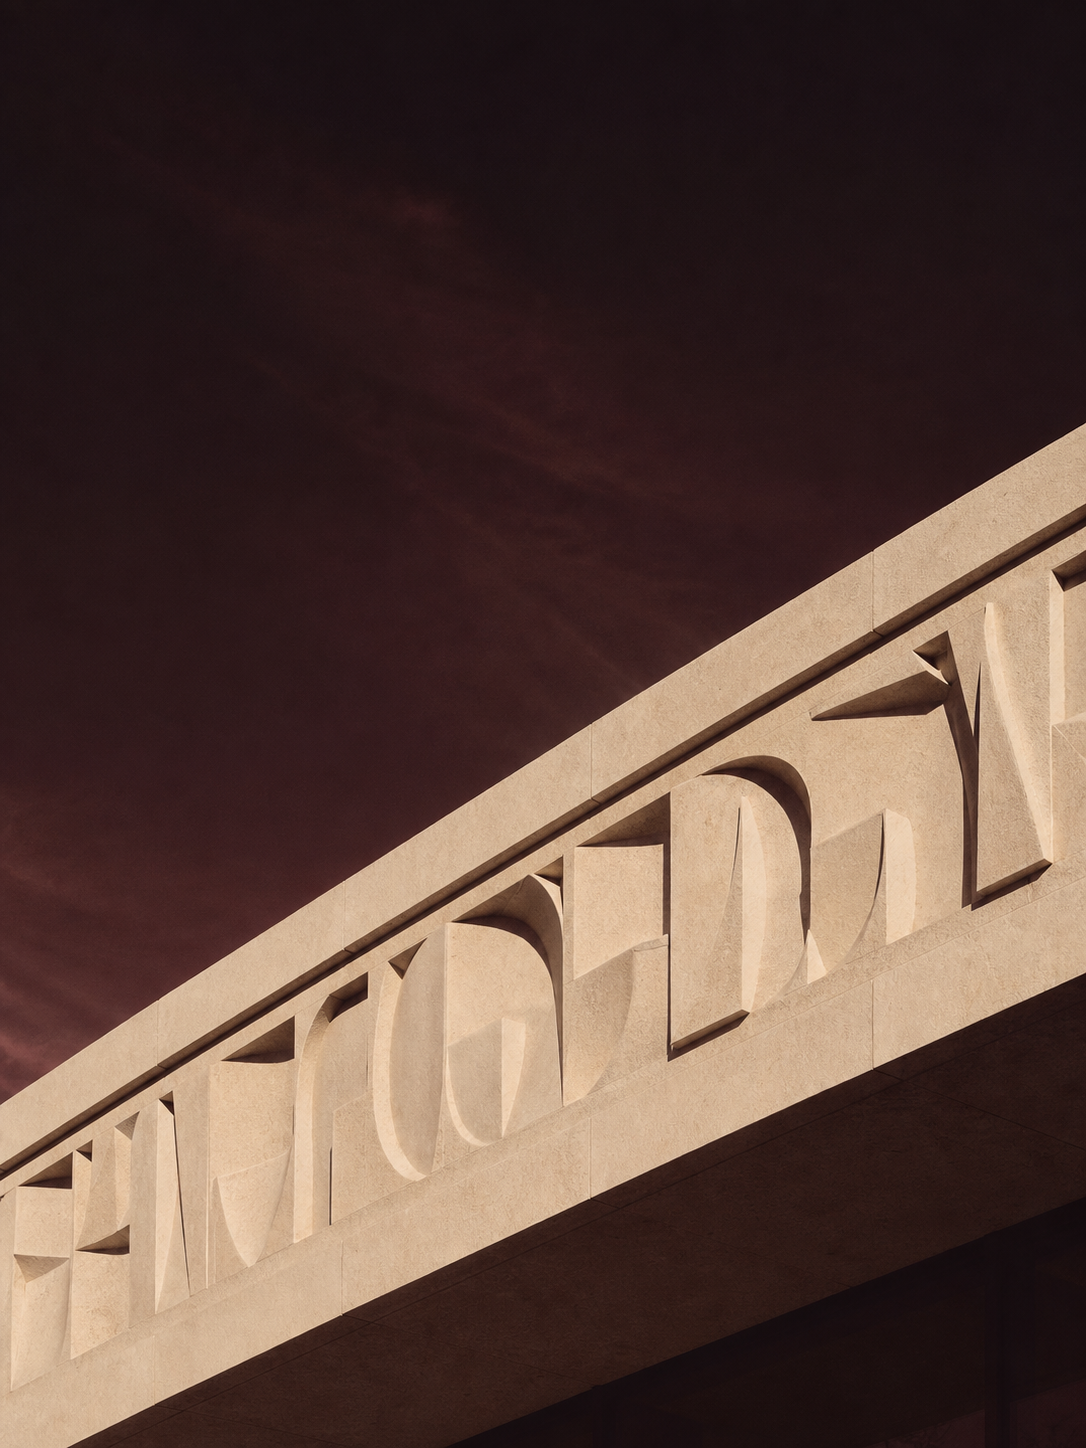
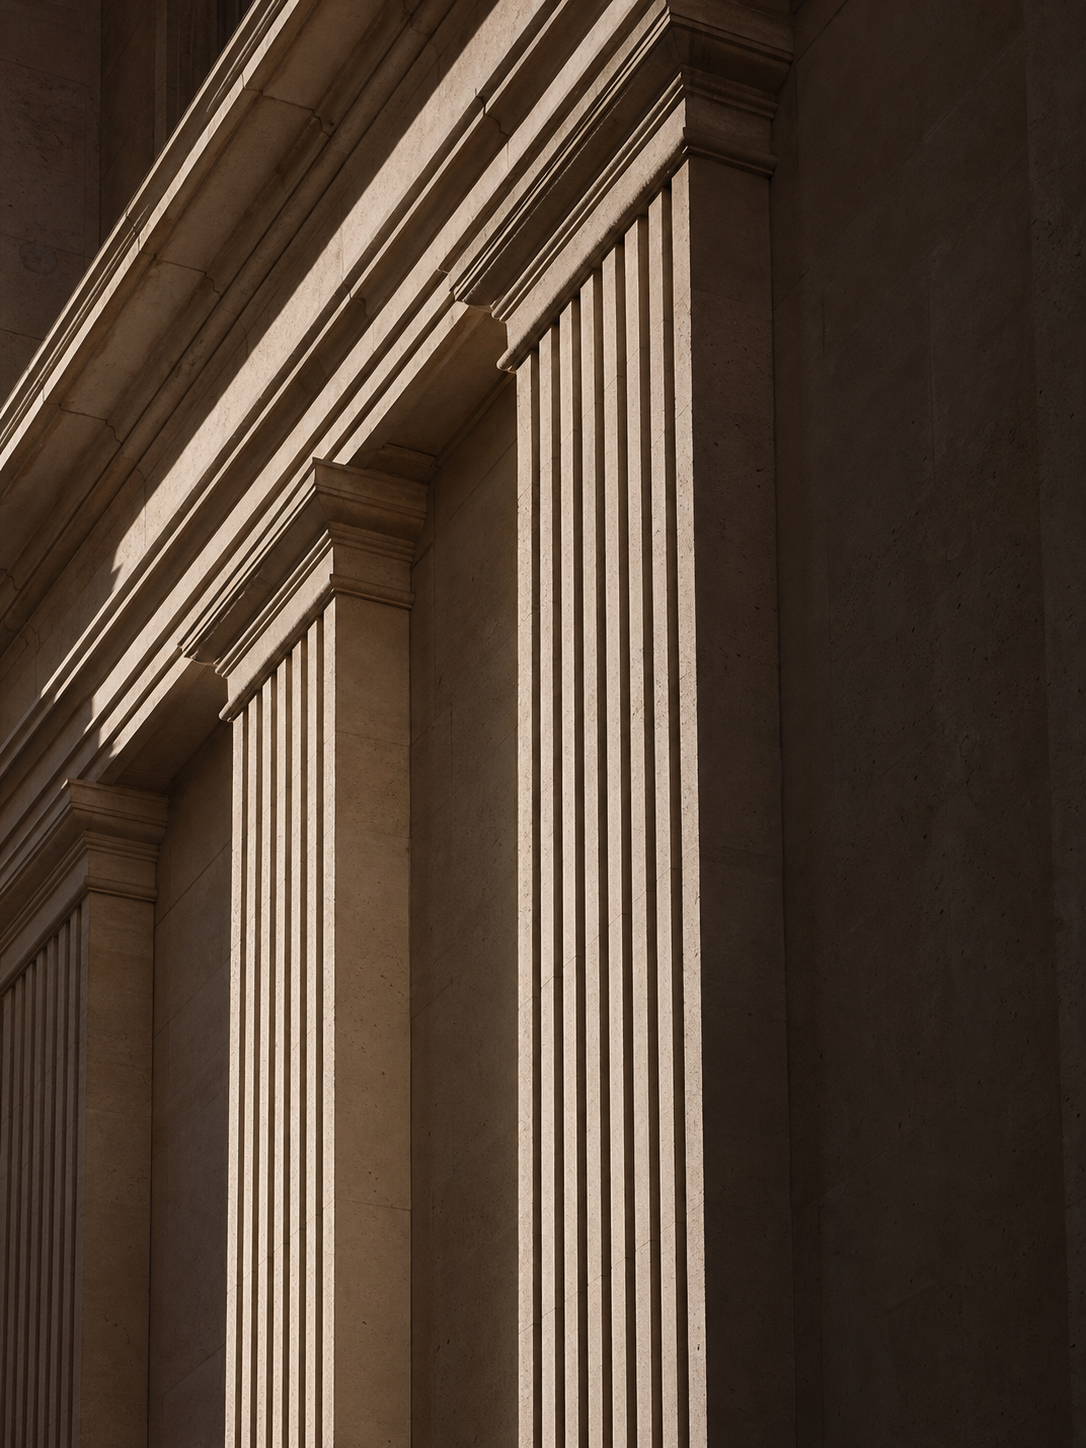
auto(design): D6 Stele resolve codex REVISE blockers -> SHIP
Clear codex's 4 remaining blockers on the kinetic Stele kit:
- Chapter justification engine no longer rivers/dead-rights: width
  scrub band held wide (76-100-84%, was 50-100-64%) so the pinned
  paragraph keeps a real reading measure while staying flush both edges.
- Short display titles (.bleed__title, .work__title) set ragged-left
  so 2-3 word titles stop spreading into giant inter-word gaps; the
  justify signature is reserved for the hero wordmark + closing line.
- Mobile hero void gone: the facade photo is full-bleed behind the
  whole hero at <=680px so the first viewport composes top-to-bottom.
- Microstructure tells removed: dropped the .eyebrow hairline-leader
  dash and both rotated vertical .runline labels; fixed the work
  runline copy that still claimed the (now-ragged) titles were justified.

Regenerated measure-facade / measure-customs (imagery provenance, prior
blocker #5). Verified headless at 1440/390: no h-overflow, justify clean
at narrow band, mobile hero anchored, no rivers/gaps. Codex re-review
VERDICT: SHIP (no remaining blocking defects); own visual read agrees.

diff --git a/exemplars/editorial-mid-century-kinetic/assets/css/style.css b/exemplars/editorial-mid-century-kinetic/assets/css/style.css
@@ -51,6 +51,9 @@ html.lenis,html.lenis body{ height:auto; }
 .lenis.lenis-stopped{ overflow:hidden; }
 
 /* ---------- shared ---------- */
+/* anchored sections clear the fixed nav on jump (no content hidden under it) */
+:where(#manifesto,#spec,#work,#studio,#commission){ scroll-margin-top:5rem; }
+
 .plate{ position:relative; padding-inline:var(--gut); }
 .plate--light{ background:var(--bone); color:var(--ink); }
 .plate--dark{ background:var(--ink); color:var(--bone); }
@@ -62,18 +65,7 @@ html.lenis,html.lenis body{ height:auto; }
   letter-spacing:0.34em; text-transform:uppercase; color:var(--muted-dark);
   display:inline-flex; align-items:center; gap:0.7rem;
 }
-.eyebrow::before{ content:""; width:2rem; height:1px; background:var(--oxblood); }
 .plate--light .eyebrow{ color:var(--oxblood); }
-
-/* thin running headline down the left margin - STATIC (never parallaxes) */
-.runline{
-  position:absolute; left:clamp(0.4rem,1.6vw,1.5rem); top:50%;
-  transform-origin:left center; transform:rotate(-90deg) translateX(-50%);
-  font-family:var(--sans); font-size:0.62rem; letter-spacing:0.42em;
-  text-transform:uppercase; color:var(--muted-dark); white-space:nowrap;
-  pointer-events:none; opacity:0.85;
-}
-@media (max-width:820px){ .runline{ display:none; } }
 
 /* justified type baseline - left-anchored so the right margin is the one that moves */
 .justify{
@@ -88,9 +80,19 @@ html.lenis,html.lenis body{ height:auto; }
   position:fixed; inset:0 0 auto 0; z-index:50;
   display:flex; align-items:center; justify-content:space-between;
   padding:1.1rem var(--gut);
-  font-family:var(--sans); mix-blend-mode:difference; color:#fff;
+  font-family:var(--sans); color:var(--bone);
   pointer-events:none;
 }
+/* scroll scrim: at the top the nav rides the dark hero (no scrim needed); once
+   scrolled it always carries a dark band so the bone nav text stays legible over
+   any plate (incl. the light manifesto/spec/studio) and never clashes with the
+   content under it. Replaces the unreliable mix-blend-difference. */
+.nav::before{
+  content:""; position:absolute; inset:0; z-index:-1;
+  background:linear-gradient(180deg,rgba(26,22,17,0.94) 0%,rgba(26,22,17,0.58) 62%,rgba(26,22,17,0) 100%);
+  opacity:0; transition:opacity .4s ease;
+}
+.nav.is-scrolled::before{ opacity:1; }
 .nav a{ pointer-events:auto; }
 .nav__brand{ font-weight:700; letter-spacing:0.16em; text-transform:uppercase; font-size:0.84rem; }
 .nav__set{ display:flex; gap:1.7rem; font-size:0.72rem; letter-spacing:0.18em; text-transform:uppercase; font-weight:600; }
@@ -106,6 +108,9 @@ html.lenis,html.lenis body{ height:auto; }
   position:sticky; top:0; height:100vh; overflow:hidden;
   display:flex; flex-direction:column; justify-content:center;
   padding-inline:var(--gut);
+  /* asymmetric block padding clears the fixed nav so the kicker never tucks
+     under it, while the bottom stays tight so the sub doesn't clip */
+  padding-top:clamp(4.2rem,9vh,6rem); padding-bottom:clamp(1rem,3vh,2rem);
 }
 .hero__layer{ position:absolute; inset:0; will-change:transform; }
 .hero__grid{ z-index:1; }
@@ -136,7 +141,7 @@ html.lenis,html.lenis body{ height:auto; }
 
 .wordmark{
   font-family:var(--serif); font-weight:500;
-  font-size:clamp(3.5rem,16vw,12rem); line-height:0.86;
+  font-size:clamp(3.4rem,14.5vw,10.6rem); line-height:0.86;
   letter-spacing:-0.02em; text-transform:uppercase; color:var(--bone);
 }
 .wordmark .ln{ display:block; overflow:hidden; }
@@ -240,6 +245,15 @@ html.lenis,html.lenis body{ height:auto; }
   /* narrow columns turn justified body copy into rivers - set it ragged-right on phones */
   .hero__sub,.bleed__meta,.chapter__body,.manifesto__line{ text-align:left; text-align-last:left; }
   .hero__kicker{ flex-wrap:wrap; gap:0.45rem 1.2rem; letter-spacing:0.24em; }
+  /* On a phone the offset portrait left a dead band above the centred type and
+     shrank the subject to a sliver behind the wordmark. Promote the facade to a
+     full-bleed backdrop so the first viewport is composed top-to-bottom and the
+     subject actually anchors the hero; the scrim carries legibility for the type. */
+  .hero__photo{ align-items:stretch; justify-content:stretch; }
+  .hero__photo figure{ width:100%; height:100%; aspect-ratio:auto; margin:0; }
+  .hero__scrim{
+    background:linear-gradient(180deg,rgba(26,22,17,0.52) 0%,rgba(26,22,17,0.6) 48%,rgba(26,22,17,0.9) 100%);
+  }
 }
 
 /* =========================================================================
@@ -308,6 +322,31 @@ html.lenis,html.lenis body{ height:auto; }
 .foot strong{ color:var(--bone); font-weight:700; letter-spacing:0.14em; }
 
 /* =========================================================================
+   DESKTOP RIVER GUARD
+   The justify SIGNATURE is reserved for the kinetic monumental lines (the
+   hero wordmark + the [data-justify] scrub titles, all short edge-to-edge
+   lines that fill a measure cleanly) and the ONE labelled engine paragraph
+   (.chapter__body, whose word-space stretch is the demonstrated point).
+   Running narrative copy justified at a wide desktop measure only opens
+   rivers, so the supporting paragraphs + the multi-line manifesto statement
+   set ragged-left at every width. Placed after all element rules so it wins
+   on cascade order over the single-class .justify / element defaults.
+   ========================================================================= */
+.hero__sub,
+.bleed__meta,
+.manifesto__line{ text-align:left; text-align-last:left; }
+
+/* Short display titles drop the justify spread: a 2-3 word .bleed__title /
+   .work__title set flush-both forces giant inter-word gaps, and the bleed
+   line's own copy ("serifs almost meeting") wants tight tracking, not spread.
+   They keep their kinetic width scrub; the few words just stay naturally set.
+   The labelled engine paragraph (.chapter__body) KEEPS justify - its copy and
+   readout are literally about flushing both edges - but its width band is held
+   wide enough (see main.js) that the measure never rivers or dead-rights. */
+.bleed__title,
+.work__title{ text-align:left; text-align-last:left; }
+
+/* =========================================================================
    JS-gated reveal states - DEFAULT (no-js) shows everything.
    Hide ONLY inner carriers inside an overflow:hidden line, never a wrapper.
    ========================================================================= */
@@ -318,6 +357,13 @@ html.lenis,html.lenis body{ height:auto; }
 /* settle fail-safe: force-visible if a trigger never fires */
 .is-settled [data-split] .word,
 .is-settled [data-split] .char{ opacity:1 !important; transform:none !important; }
+
+/* reveal lock: once an entrance has played (or the capture-safety has run) the
+   words are pinned to their shown state with !important so a late web-font
+   reflow can never re-strand them below their clipped line box. CSS !important
+   beats the stale inline GSAP transform that the font race leaves behind. */
+.js [data-split].is-shown .word,
+.js [data-split].is-shown .char{ opacity:1 !important; transform:none !important; }
 
 /* clip reveal media */
 .js .clip-reveal{ clip-path:inset(0 0 100% 0); }

diff --git a/exemplars/editorial-mid-century-kinetic/assets/js/main.js b/exemplars/editorial-mid-century-kinetic/assets/js/main.js
@@ -32,6 +32,21 @@
   /* settle safety net - if a trigger never fires, never leave content blank */
   var settleTimer = setTimeout(function () { doc.body.classList.add("is-settled"); }, 2600);
 
+  /* ---- NAV SCRIM (runs in EVERY mode, incl. reduced-motion / no-CDN) ----
+     The fixed nav rides the dark hero at the top, but once scrolled it crosses
+     light plates (manifesto/spec/studio) and content; a dark scrim fades in so
+     the bone nav text stays legible and never clashes with the copy under it.
+     Toggled on raw scroll position so it works even when GSAP fails to load. */
+  var navEl = doc.querySelector(".nav");
+  if (navEl) {
+    var syncNav = function () {
+      var y = window.pageYOffset || doc.documentElement.scrollTop || 0;
+      navEl.classList[y > 40 ? "add" : "remove"]("is-scrolled");
+    };
+    window.addEventListener("scroll", syncNav, { passive: true });
+    syncNav();
+  }
+
   /* =========================================================================
      PARALLAX + MOUSE-TILT (hero diorama) - runs on its own rAF.
      Scroll translateY lives on the LAYER; mouse tilt on the INNER node,
@@ -90,7 +105,10 @@
   var roWord = doc.getElementById("roWord");
   function justifyChapter(p) {
     if (chapterBody) {
-      var w = p < 0.5 ? lerp(50, 100, p / 0.5) : lerp(100, 64, (p - 0.5) / 0.5);
+      // breathe the measure within a band that stays a real reading column:
+      // wide enough that the ragged-left paragraph never leaves a dead right
+      // half, narrow enough that the re-wrap still reads as the live engine.
+      var w = p < 0.5 ? lerp(76, 100, p / 0.5) : lerp(100, 84, (p - 0.5) / 0.5);
       chapterBody.style.width = w.toFixed(2) + "%";
       if (roMeasure) roMeasure.textContent = Math.round(w * 0.62);
       if (roWord) roWord.textContent = Math.round(100 + (100 - w) * 1.9);
@@ -216,7 +234,8 @@
     } else {
       gsap.set(words, { yPercent: 110, opacity: 0 });
       play = onceFn(function () {
-        gsap.to(words, { yPercent: 0, opacity: 1, duration: 0.8, ease: "power3.out", stagger: 0.04 });
+        gsap.to(words, { yPercent: 0, opacity: 1, duration: 0.8, ease: "power3.out", stagger: 0.04,
+          onComplete: function () { el.classList.add("is-shown"); } });
       });
     }
     ST.create({ trigger: el, start: "top 84%", once: true, onEnter: play });
@@ -239,6 +258,15 @@
   setTimeout(function () {
     for (var r = 0; r < pendingReveals.length; r++) pendingReveals[r]();
   }, 1100);
+
+  /* capture-safety: lock every split entrance to its shown state ahead of the
+     static full-page capture, so a web-font reflow (which can strand the word
+     wrappers translated below their clipped line box even after the reveal
+     opacity has run) or a still-staggering tween is never captured blank. */
+  setTimeout(function () {
+    var splits = doc.querySelectorAll("[data-split]");
+    for (var s = 0; s < splits.length; s++) splits[s].classList.add("is-shown");
+  }, 1900);
 
   /* ---- animated counters ---- */
   gsap.utils.toArray("[data-count]").forEach(function (el) {

diff --git a/exemplars/editorial-mid-century-kinetic/index.html b/exemplars/editorial-mid-century-kinetic/index.html
@@ -64,7 +64,6 @@
 
   <!-- ============ MANIFESTO; one statement justified into negative space ============ -->
   <section class="plate plate--light plate--pad manifesto" id="manifesto">
-    <span class="runline">Every margin held flush</span>
     <div class="wrap manifesto__inner">
       <p class="eyebrow">The atelier</p>
       <h2 class="manifesto__line justify" data-split>
@@ -104,7 +103,6 @@
 
   <!-- ============ SPEC TABLE; live typographic metrics, ticking counters ============ -->
   <section class="plate plate--light plate--pad spec" id="spec">
-    <span class="runline">Set to measure, in numbers</span>
     <div class="wrap">
       <div class="spec__head">
         <h2>The typographic spec</h2>
@@ -145,7 +143,7 @@
     <div class="wrap">
       <div class="spec__head">
         <h2 style="font-family:var(--serif);font-weight:600;font-size:clamp(1.8rem,5vw,3.6rem)">Walls we have set</h2>
-        <p class="eyebrow" style="margin:0">Each title justified to its own column</p>
+        <p class="eyebrow" style="margin:0">Each wall set to its own measure</p>
       </div>
 
       <div class="work__row">